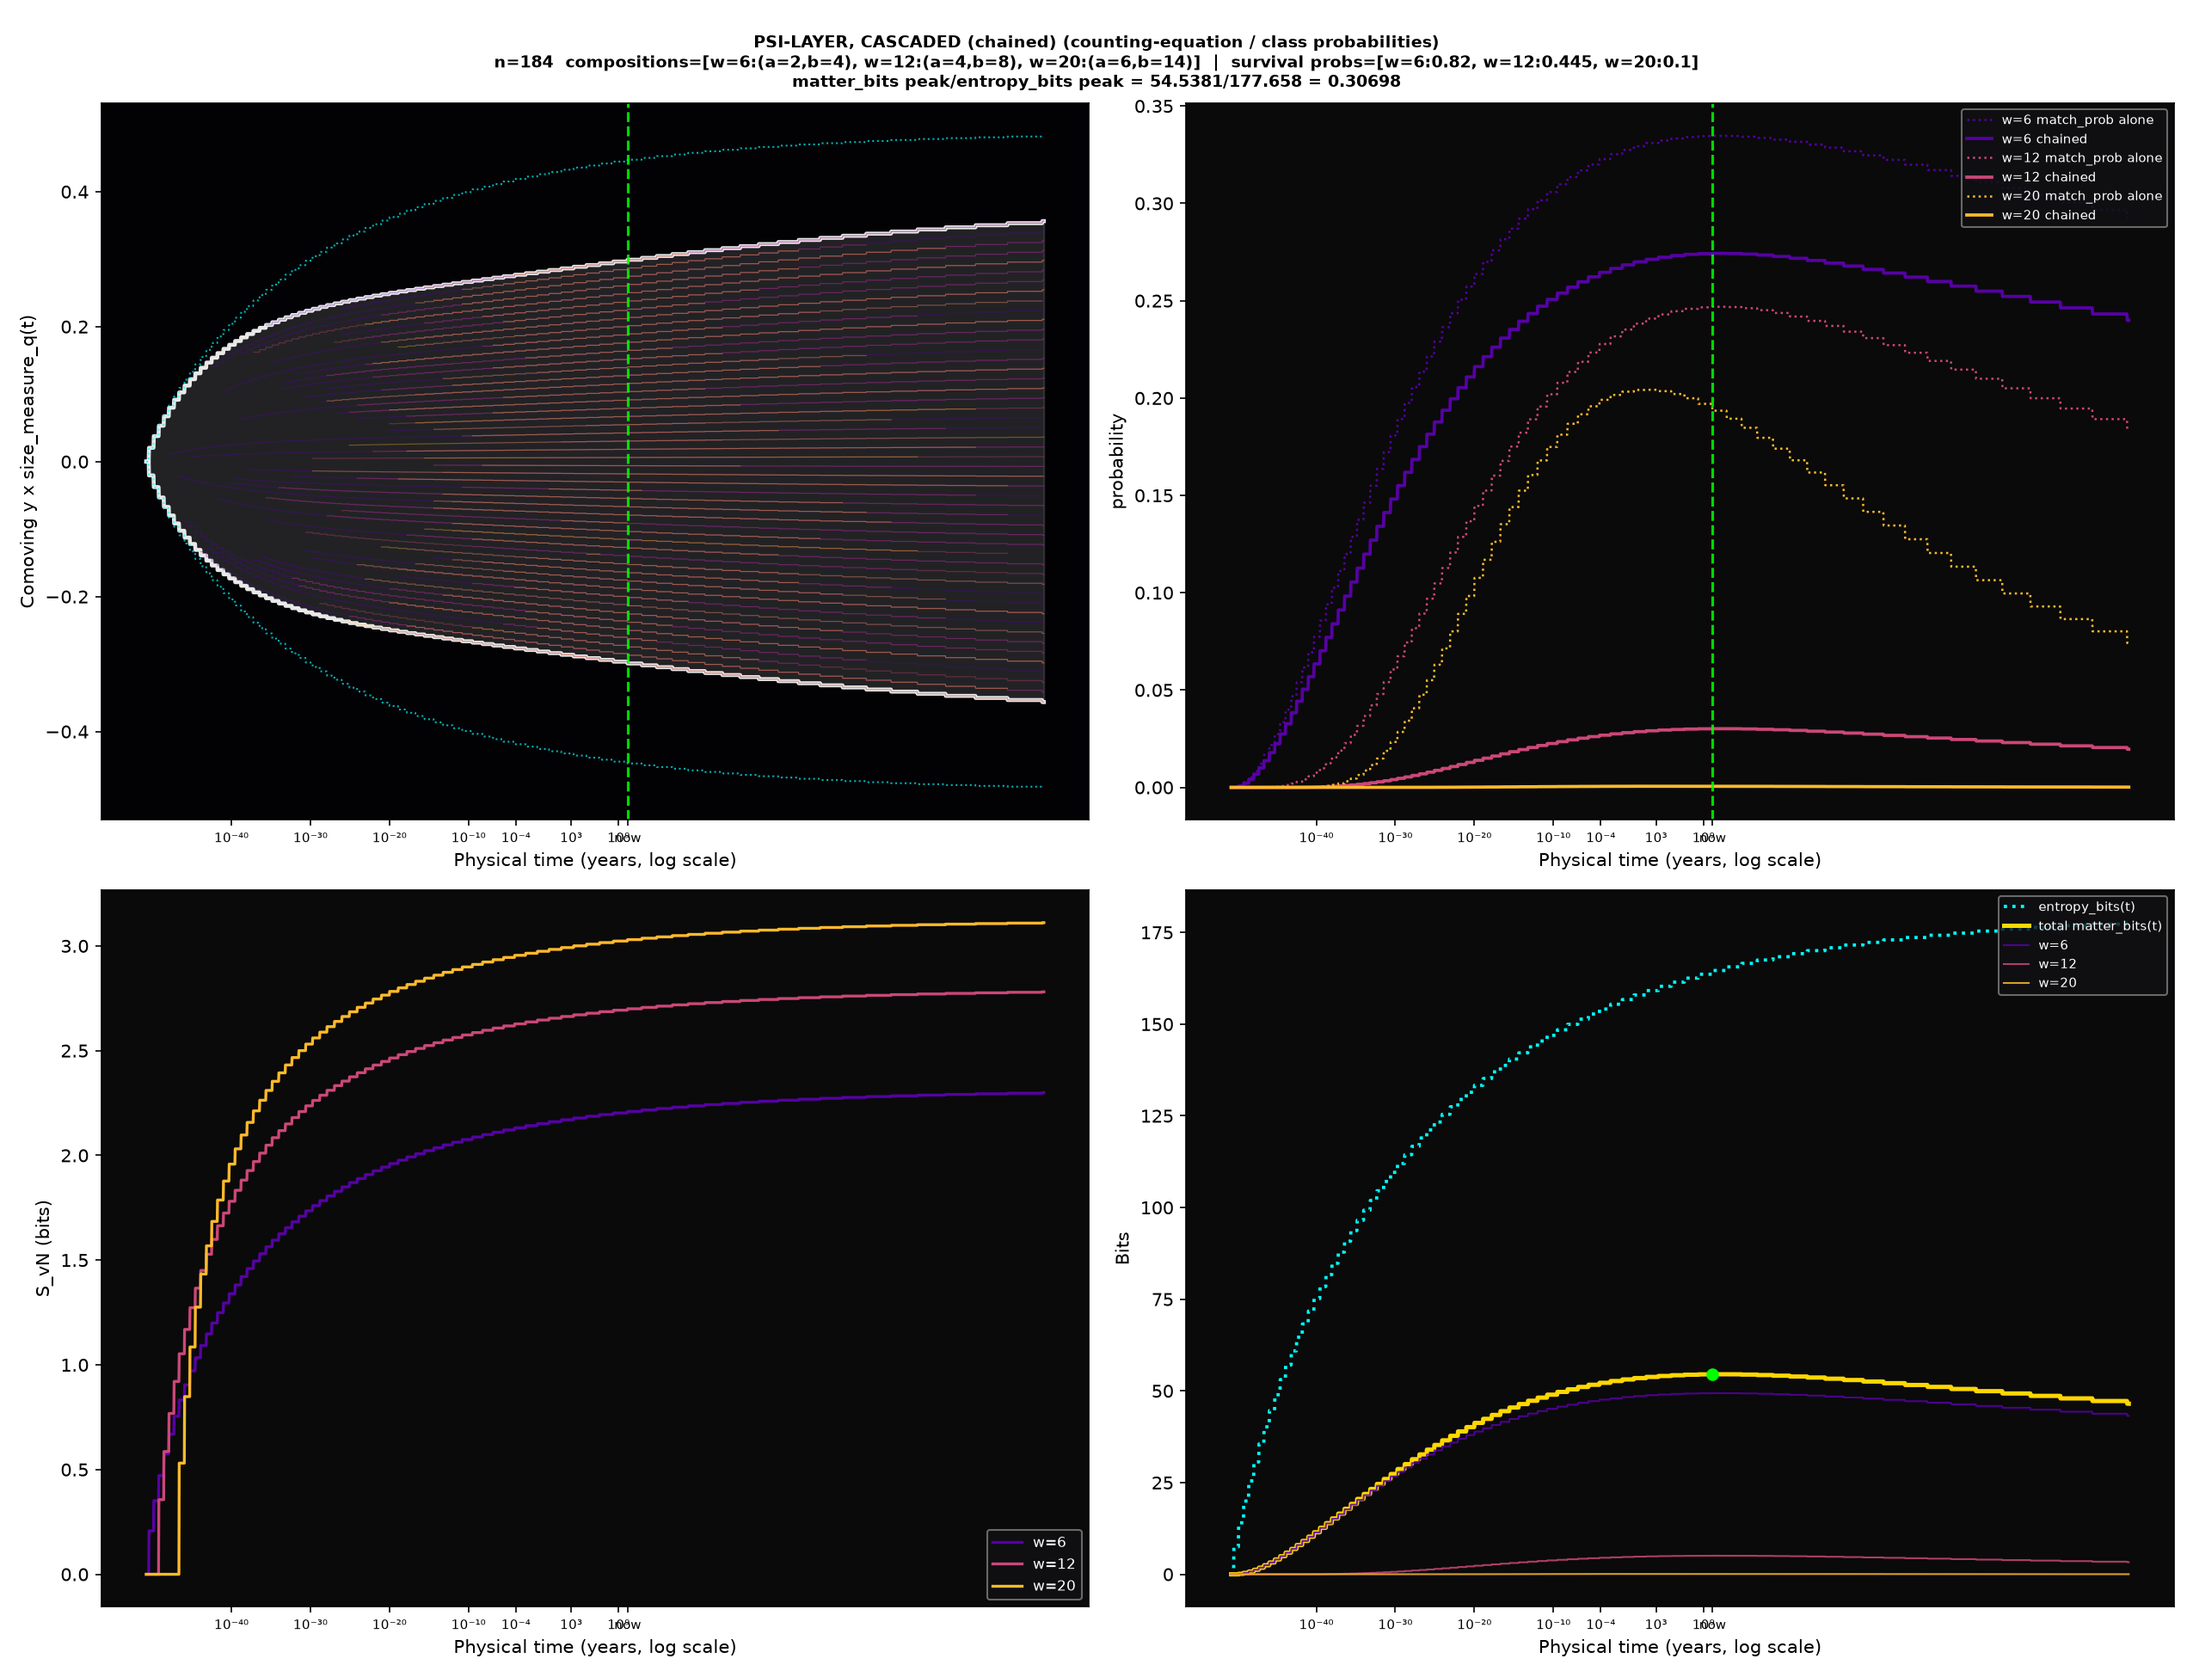
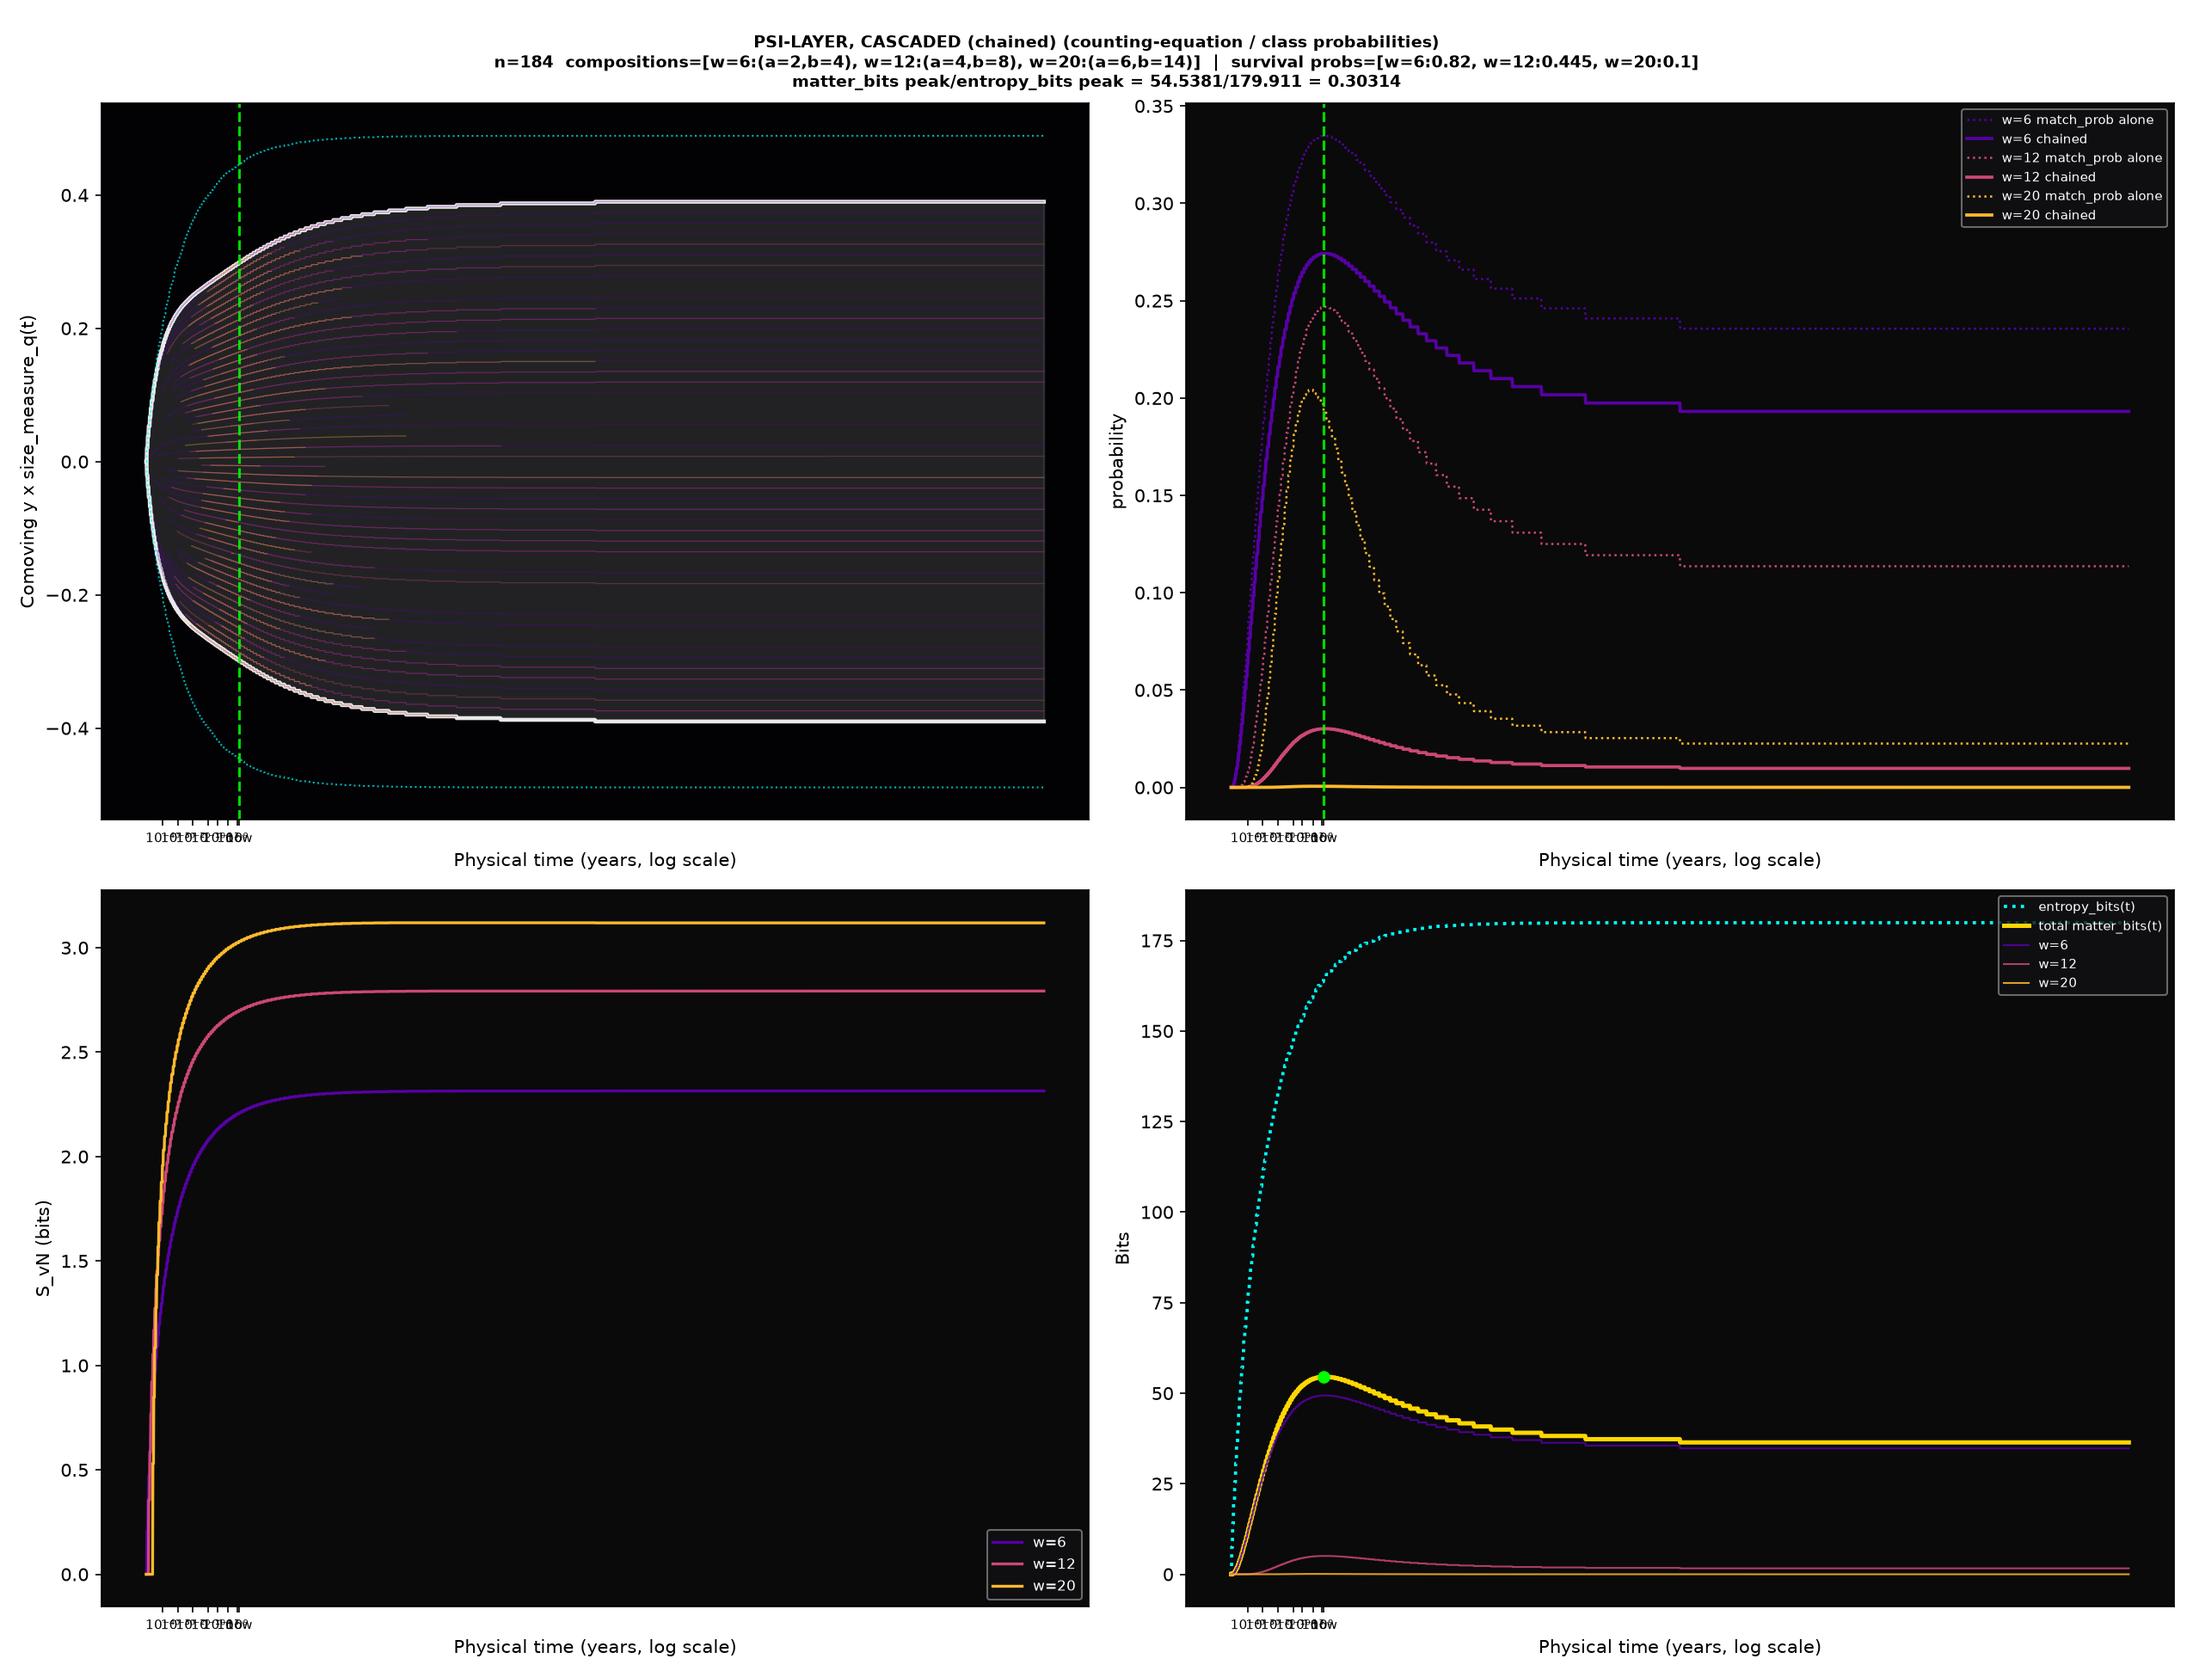
General wavefunction

diff --git a/papers/cosmological-model/simulations/cosmic.py b/papers/cosmological-model/simulations/cosmic.py
@@ -1,62 +1,50 @@
-"""Unified launcher for the three cosmological-model backends.
+"""Unified launcher for the three cosmological simulation backends.
 
 Examples
 --------
-
-    python cosmic.py statistical --n_bits 184
-    python cosmic.py dicke --n_bits 184 --parallel
-    python cosmic.py history --n_bits 184 --observer gaussian:9
-
-The launcher intentionally executes the existing drivers as separate scripts,
-so their command-line interfaces and plots remain unchanged.
+python cosmic.py statistical --scales 6,12,20
+python cosmic.py dicke --scales 6,12,20
+python cosmic.py wavefunction --scales 6,12,20
 """
 
 from __future__ import annotations
 
-import argparse
-import subprocess
+import os
 import sys
 from pathlib import Path
 
 
-BACKENDS = {
+MODES = {
     "statistical": "cosmic_d.py",
-    "d": "cosmic_d.py",
     "dicke": "cosmic_psi.py",
-    "psi": "cosmic_psi.py",
-    "history": "cosmic_history.py",
-    "quantum-history": "cosmic_history.py",
-    "q": "cosmic_history.py",
+    "wavefunction": "cosmic_wavefunction.py",
+    "general": "cosmic_wavefunction.py",
 }
 
 
+def _usage() -> str:
+    return (
+        "Usage: python cosmic.py {statistical|dicke|wavefunction} [backend options]\n\n"
+        "  statistical  Existing classical relaxing-bitstring backend\n"
+        "  dicke        Existing fixed-sector Dicke backend\n"
+        "  wavefunction New general complex state with exact Born statistical shadow\n"
+    )
+
+
 def main() -> None:
-    parser = argparse.ArgumentParser(
-        description="Run the statistical, Dicke, or observer-conditioned quantum-history cosmology backend.",
-        add_help=True,
-    )
-    parser.add_argument("model", choices=tuple(BACKENDS))
-    parser.add_argument(
-        "backend_args",
-        nargs=argparse.REMAINDER,
-        help="Arguments passed unchanged to the selected backend.",
-    )
-    args = parser.parse_args()
-
-    base = Path(__file__).resolve().parent
-    script = base / BACKENDS[args.model]
-    if not script.exists():
-        raise SystemExit(
-            f"Backend script not found: {script}. Place cosmic.py and cosmic_history.py "
-            "beside the existing cosmic_d.py and cosmic_psi.py files."
-        )
-
-    completed = subprocess.run(
-        [sys.executable, str(script), *args.backend_args],
-        cwd=base,
-        check=False,
-    )
-    raise SystemExit(completed.returncode)
+    if len(sys.argv) < 2 or sys.argv[1] in {"-h", "--help"}:
+        print(_usage())
+        return
+    mode = sys.argv[1].lower()
+    if mode not in MODES:
+        print(f"Unknown mode: {mode}\n", file=sys.stderr)
+        print(_usage(), file=sys.stderr)
+        raise SystemExit(2)
+    directory = Path(__file__).resolve().parent
+    target = directory / MODES[mode]
+    if not target.exists():
+        raise SystemExit(f"Backend script is missing: {target}")
+    os.execv(sys.executable, [sys.executable, str(target), *sys.argv[2:]])
 
 
 if __name__ == "__main__":
